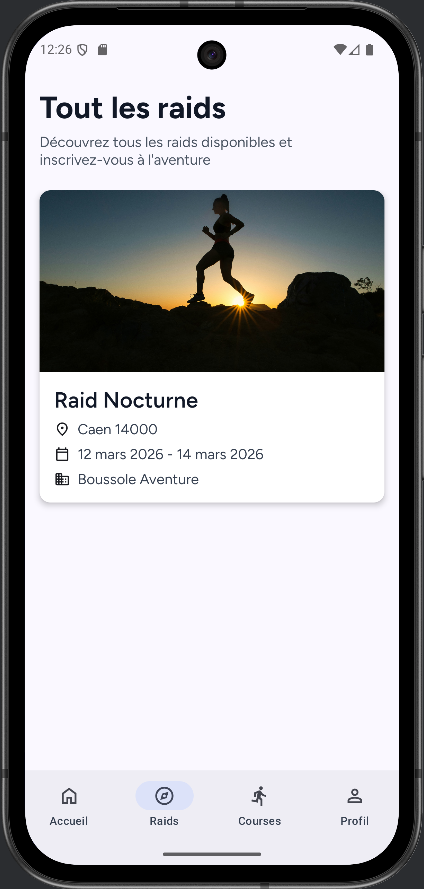
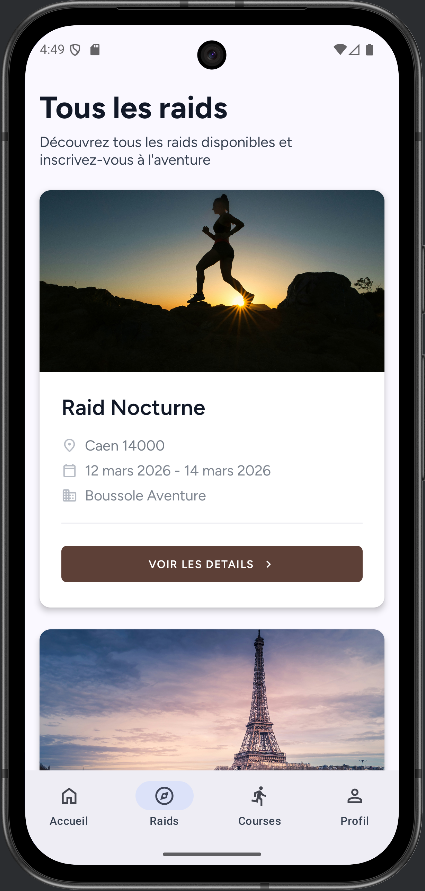
[feat & style]: improve style and add see details button

diff --git a/app/src/main/java/com/readymapeo/mobile/ui/screens/raids/RaidsScreen.kt b/app/src/main/java/com/readymapeo/mobile/ui/screens/raids/RaidsScreen.kt
@@ -2,17 +2,25 @@ package com.readymapeo.mobile.ui.screens.raids
 
 import androidx.compose.foundation.layout.Arrangement
 import androidx.compose.foundation.layout.Column
+import androidx.compose.foundation.layout.PaddingValues
 import androidx.compose.foundation.layout.Row
 import androidx.compose.foundation.layout.Spacer
 import androidx.compose.foundation.layout.fillMaxHeight
 import androidx.compose.foundation.layout.fillMaxWidth
 import androidx.compose.foundation.layout.height
 import androidx.compose.foundation.layout.padding
+import androidx.compose.foundation.layout.size
 import androidx.compose.foundation.layout.width
 import androidx.compose.foundation.lazy.LazyColumn
 import androidx.compose.foundation.lazy.items
+import androidx.compose.foundation.shape.RoundedCornerShape
+import androidx.compose.material.icons.Icons
+import androidx.compose.material.icons.automirrored.filled.KeyboardArrowRight
+import androidx.compose.material3.Button
+import androidx.compose.material3.ButtonDefaults
 import androidx.compose.material3.Card
 import androidx.compose.material3.CardDefaults
+import androidx.compose.material3.HorizontalDivider
 import androidx.compose.material3.Icon
 import androidx.compose.material3.MaterialTheme
 import androidx.compose.material3.Text
@@ -24,7 +32,9 @@ import androidx.compose.ui.graphics.Color
 import androidx.compose.ui.graphics.vector.ImageVector
 import androidx.compose.ui.layout.ContentScale
 import androidx.compose.ui.res.vectorResource
+import androidx.compose.ui.text.font.FontWeight
 import androidx.compose.ui.unit.dp
+import androidx.compose.ui.unit.sp
 import androidx.lifecycle.viewmodel.compose.viewModel
 import com.readymapeo.mobile.R
 import com.readymapeo.mobile.config.ApiConfig
@@ -38,47 +48,51 @@ fun RaidsScreen(viewModel: RaidsViewModel = viewModel()) {
         viewModel.loadRaids()
     }
 
-    Column(
-        modifier = Modifier.padding(16.dp).fillMaxHeight(),
+    LazyColumn(
+        modifier = Modifier.fillMaxHeight(),
+        contentPadding = PaddingValues(top = 16.dp, start = 16.dp, end = 16.dp, bottom = 32.dp),
         verticalArrangement = Arrangement.spacedBy(24.dp)
     ) {
-        Column(verticalArrangement = Arrangement.spacedBy(8.dp)) {
-            Text(
-                text = "Tout les raids",
-                style = MaterialTheme.typography.displayLarge
-            )
-            Text(
-                text = "Découvrez tous les raids disponibles et inscrivez-vous à l'aventure",
-                style = MaterialTheme.typography.bodyLarge,
-                color = Color(0xFF4B5563),
-            )
+        item {
+            Column(verticalArrangement = Arrangement.spacedBy(8.dp)) {
+                Text(
+                    text = "Tous les raids",
+                    style = MaterialTheme.typography.displayLarge
+                )
+                Text(
+                    text = "Découvrez tous les raids disponibles et inscrivez-vous à l'aventure",
+                    style = MaterialTheme.typography.bodyLarge,
+                )
+            }
         }
 
-        LazyColumn(modifier = Modifier.fillMaxHeight()) {
-            items(viewModel.raids.value) {
+        items(viewModel.raids.value) {
+            Card(
+                modifier = Modifier.fillMaxWidth(),
+                colors = CardDefaults.cardColors(containerColor = Color.White),
+                elevation = CardDefaults.cardElevation(4.dp),
+                onClick = {}
+            ) {
 
-                Card(
-                    modifier = Modifier.fillMaxWidth(),
-                    colors = CardDefaults.cardColors(containerColor = Color.White),
-                    elevation = CardDefaults.cardElevation(4.dp),
-                    onClick = {}
-                ) {
+                RaidImage(it.raidImage)
 
-                    RaidImage(it.raidImage)
+                Column(modifier = Modifier.padding(24.dp), verticalArrangement = Arrangement.spacedBy(8.dp)) {
+                    // raid name
+                    RaidName(it.raidName)
 
-                    Column(modifier = Modifier.padding(16.dp), verticalArrangement = Arrangement.spacedBy(8.dp)) {
-                        // raid name
-                        RaidName(it.raidName)
+                    // location of raids
+                    CityAndPostalCode(it.raidCity, it.raidPostalCode)
 
-                        // location of raids
-                        CityAndPostalCode(it.raidCity, it.raidPostalCode)
+                    // dates of raid
+                    StartAndEndDate(it.raidDateStart, it.raidDateEnd)
 
-                        // dates of raid
-                        StartAndEndDate(it.raidDateStart, it.raidDateEnd)
+                    // club of the raid
+                    HostClub(it.club.clubName)
 
-                        // club of the raid
-                        HostClub(it.club.clubName)
-                    }
+                    Divider()
+
+                    // see details
+                    SeeDetailsButton("VOIR LES DETAILS")
                 }
             }
         }
@@ -100,6 +114,7 @@ fun RaidName(raidName: String) {
         text = raidName,
         style = MaterialTheme.typography.displaySmall
     )
+    Spacer(modifier = Modifier.height(2.dp))
 }
 
 @Composable
@@ -107,10 +122,14 @@ fun CityAndPostalCode(raidCity: String, raidPostalCode: String) {
     Row (verticalAlignment = Alignment.CenterVertically) {
         Icon(
             imageVector = ImageVector.vectorResource(R.drawable.location_pin),
-            contentDescription = "location_pin"
+            contentDescription = "location_pin",
+            tint = Color.Unspecified
         )
         Spacer(modifier = Modifier.width(8.dp))
-        Text("$raidCity $raidPostalCode")
+        Text(
+            text = "$raidCity $raidPostalCode",
+            color = Color(0xFF757d87),
+        )
     }
 }
 
@@ -119,10 +138,14 @@ fun StartAndEndDate(raidDateStart: String, raidDateEnd: String) {
     Row (verticalAlignment = Alignment.CenterVertically) {
         Icon(
             imageVector = ImageVector.vectorResource(R.drawable.calendar),
-            contentDescription = "calendar"
+            contentDescription = "calendar",
+            tint = Color.Unspecified
         )
         Spacer(modifier = Modifier.width(8.dp))
-        Text("${raidDateStart.toFrenchDate()} - ${raidDateEnd.toFrenchDate()}")
+        Text(
+            text = "${raidDateStart.toFrenchDate()} - ${raidDateEnd.toFrenchDate()}",
+            color = Color(0xFF7F8690)
+        )
     }
 }
 
@@ -131,9 +154,57 @@ fun HostClub(clubName: String) {
     Row (verticalAlignment = Alignment.CenterVertically) {
         Icon (
             imageVector = ImageVector.vectorResource(R.drawable.building),
-            contentDescription = "organizer club"
+            contentDescription = "organizer_club",
+            tint = Color.Unspecified
         )
         Spacer(modifier = Modifier.width(8.dp))
-        Text(clubName)
+        Text(
+            text = clubName,
+            color = Color(0xFF7F8690)
+        )
+    }
+}
+
+@Composable
+fun Divider() {
+    Spacer(modifier = Modifier.height(4.dp))
+    HorizontalDivider(
+        color = Color(0xFFE6E6ED)
+    )
+    Spacer(modifier = Modifier.height(4.dp))
+}
+
+@Composable
+fun SeeDetailsButton(text: String = "") {
+    Button(
+        onClick = {},
+        modifier = Modifier.fillMaxWidth(),
+        colors = ButtonDefaults.buttonColors(
+            containerColor = Color(ApiConfig.COLOR_MAIN_BROWN)
+        ),
+        shape = RoundedCornerShape(6.dp),
+        contentPadding = PaddingValues(horizontal = 16.dp, vertical = 8.dp)
+    ) {
+        Row(
+            verticalAlignment = Alignment.CenterVertically,
+            horizontalArrangement = Arrangement.Center
+        ) {
+            Text(
+                text = text,
+                fontSize = 12.sp,
+                fontWeight = FontWeight.SemiBold,
+                letterSpacing = 1.sp,
+                color = Color.White
+            )
+
+            Spacer(modifier = Modifier.width(8.dp))
+
+            Icon(
+                imageVector = Icons.AutoMirrored.Filled.KeyboardArrowRight,
+                contentDescription = "arrow_right",
+                tint = Color.White,
+                modifier = Modifier.size(16.dp)
+            )
+        }
     }
 }

diff --git a/app/src/main/java/com/readymapeo/mobile/config/ApiConfig.kt b/app/src/main/java/com/readymapeo/mobile/config/ApiConfig.kt
@@ -4,4 +4,6 @@ object ApiConfig {
     const val BASE_URL = "http://10.0.2.2:8080" // adresse locale emulateur android vers localhost
     const val BASE_URL_API = "$BASE_URL/api"
     const val BASE_URL_STORAGE = "$BASE_URL/storage"
+
+    const val COLOR_MAIN_BROWN = 0xFF5D4037
 }
